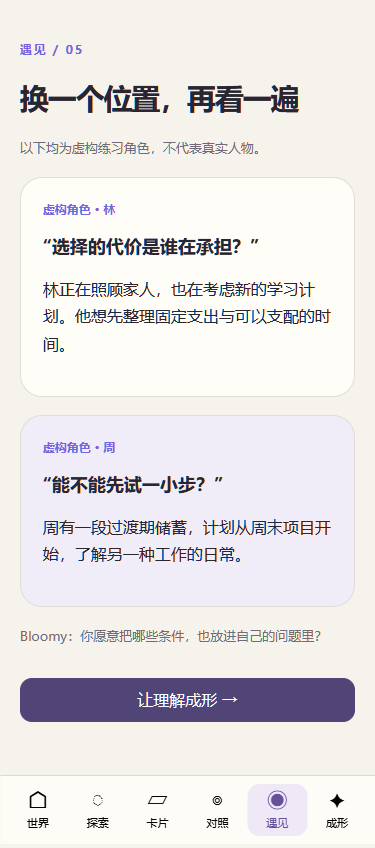
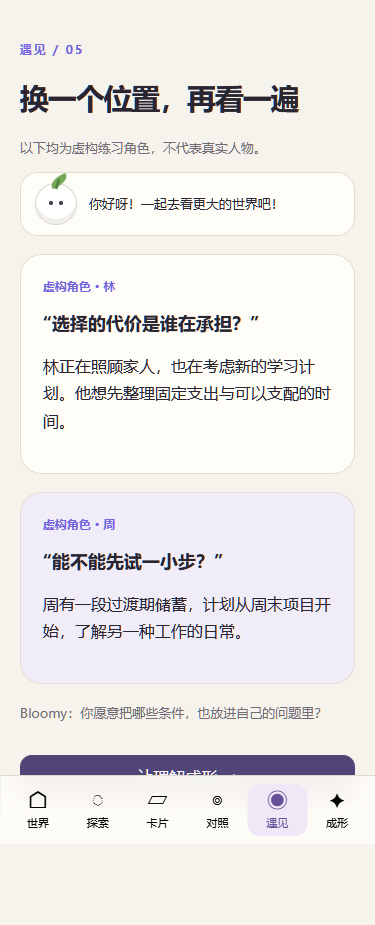
feat(app): Bloomy Pandora fog unlocks and crystal rewards

diff --git a/src/app/shell.ts b/src/app/shell.ts
@@ -5,7 +5,7 @@ import { mountMap } from './map';
 const routes = ['home', 'explore', 'detail', 'compare', 'meet', 'shape'];
 const names = ['世界', '探索', '卡片', '对照', '遇见', '成形'];
 const storageKey = 'guiyi-u-app-v1';
-const state = { filter: '全部', island: '', selected: 'a', favorites: [] as string[], compare: ['a', 'b'], marks: [] as string[], question: '', draft: ['', '', '', ''], saved: false };
+const state = { filter: '全部', island: '', selected: 'a', favorites: [] as string[], compare: ['a', 'b'], marks: [] as string[], question: '', draft: ['', '', '', ''], saved: false, crystals: 0, taskOpen: false, exploreRewarded: false };
 try {
   const stored = JSON.parse(localStorage.getItem(storageKey) || 'null');
   if (stored && typeof stored.question === 'string' && ['favorites', 'compare', 'marks', 'draft'].every(k => Array.isArray(stored[k]) && stored[k].every((v: unknown) => typeof v === 'string')) && stored.draft.length === 4) Object.assign(state, stored);
@@ -25,34 +25,35 @@ loadAppData().then(data => {
   if (state.compare.length !== 2) state.compare = ['a', 'b'];
   function view(page: string) {
     const current = data.cards.find(c => c.id === state.selected)!;
-    if (page === 'home') return title('归一 UNIVERSE / 01', '一问，一座世界', '不急着下结论，先让不同的线索相遇。') + '<form id="question-form" class="question-card"><label for="question">你正在问什么？</label><textarea id="question" maxlength="160" required>' + escape(state.question) + '</textarea><button class="primary">进入这座世界 →</button></form><div class="section-row"><h2>四座岛，慢慢探索</h2><span class="muted">探索进度 · 占位</span></div><div id="map" class="map-wrap"></div><p class="center-note">中央归一水晶 · 世界地标</p><div class="island-grid">' + data.islands.map(i => '<button data-island="' + i.id + '" style="background:' + i.color + '"><b>' + i.name + '</b><small>' + i.note + '</small></button>').join('') + '</div>' + (state.saved ? '<button class="full" data-path>已解锁：可逆的小步尝试 →</button>' : '');
+    if (page === 'home') return '<div class="topbar"><span>归一 UNIVERSE</span><b class="crystals">◇ ' + state.crystals + '</b></div>' + title('归一 UNIVERSE / 01', '一问，一座世界', '不急着下结论，先让不同的线索相遇。') + '<div class="bloomy"><div class="bloomy-art"><i></i><em></em></div><p>你好呀！一起去看更大的世界吧！</p></div><form id="question-form" class="question-card"><label for="question">你正在问什么？</label><textarea id="question" maxlength="160" required>' + escape(state.question) + '</textarea><button class="primary">进入这座世界 →</button></form><div class="section-row"><h2>四座岛，慢慢探索</h2><span class="muted">探索进度 · 占位</span></div><div id="map" class="map-wrap"></div><p class="center-note">中央归一水晶 · 世界地标</p><div class="island-grid">' + data.islands.map((i, index) => '<button class="' + (index > (state.saved ? 1 : 0) ? 'fogged' : '') + '" data-island="' + i.id + '" style="background:' + i.color + '"><b>' + i.name + '</b><small>' + i.note + '</small></button>').join('') + '</div><article class="mystery-box"><span class="tag">潘多拉任务 · 虚构</span><h2>打开被封锁的盒子，遇见意想不到的你</h2><p>一个未知岛入口的神秘练习。</p><button data-task>打开神秘盒子</button>' + (state.taskOpen ? '<div class="task-list">' + data.tasks.map(t => '<p>◇ ' + t + '<small>虚构任务示例</small></p>').join('') + '</div>' : '') + '</article>' + (state.saved ? '<button class="full" data-path>已解锁：可逆的小步尝试 →</button>' : '');
     if (page === 'explore') {
       const cards = data.cards.filter(c => (state.filter === '全部' || c.type === state.filter) && (!state.island || c.island === state.island));
       return title('探索 / 02', '收集不同的线索', escape(state.question)) + '<div class="chips">' + ['全部', '证据', '观点', '相关话题'].map(f => '<button data-filter="' + f + '" aria-pressed="' + (f === state.filter) + '">' + f + '</button>').join('') + '</div>' + (state.island ? '<button data-clear-island>查看所有岛屿 ×</button>' : '') + '<div class="card-list">' + cards.map(c => '<button class="card-tile" data-card="' + c.id + '"><span class="tag">' + c.type + '</span><h2>' + escape(c.title) + '</h2><p>' + escape(c.text) + '</p><small>' + escape(c.source) + '</small><span class="card-link">打开线索 ↗</span></button>').join('') + '</div>' + (!cards.length ? '<p>这个筛选下暂无线索，请切换分类。</p>' : '');
     }
     if (page === 'detail') return '<button data-go="explore">← 返回探索</button>' + title(current.type + ' / 03', escape(current.title), '本地演示材料') + '<article class="detail-card"><span class="tag">原文</span><blockquote>' + escape(current.text) + '</blockquote><h2>来源</h2><p>' + escape(current.source) + '</p><h2>处境</h2><p>' + escape(current.context) + '</p></article><div class="actions"><button data-favorite aria-pressed="' + state.favorites.includes(current.id) + '">' + (state.favorites.includes(current.id) ? '已收藏' : '收藏') + '</button><button data-add-compare>加入对照</button><button disabled>分享 · 敬请期待</button></div>';
     if (page === 'compare') return title('对照 / 04', '给不同理解留位置', '并排看见处境，差异不必马上得到解决。') + '<div class="compare-grid">' + state.compare.map((id, index) => { const c = data.cards.find(x => x.id === id)!; return '<article class="compare-card"><span class="tag">观点 ' + (index ? 'B' : 'A') + '</span><h2>' + escape(c.title) + '</h2><p>' + escape(c.text) + '</p><small>' + escape(c.context) + '</small></article>'; }).join('') + '</div><h2>我的标记</h2><p class="muted">本地标记占位，可以多选。</p><div class="marks">' + ['发现差异', '发现张力', '新的启发'].map(m => '<button data-mark="' + m + '" aria-pressed="' + state.marks.includes(m) + '">' + m + '</button>').join('') + '</div><button class="primary full" data-go="meet">遇见更多处境 →</button>';
-    if (page === 'meet') return title('遇见 / 05', '换一个位置，再看一遍', '以下均为虚构练习角色，不代表真实人物。') + '<article class="character"><span class="tag">虚构角色 · 林</span><h2>“选择的代价是谁在承担？”</h2><p>林正在照顾家人，也在考虑新的学习计划。他想先整理固定支出与可以支配的时间。</p></article><article class="character"><span class="tag">虚构角色 · 周</span><h2>“能不能先试一小步？”</h2><p>周有一段过渡期储蓄，计划从周末项目开始，了解另一种工作的日常。</p></article><p class="muted">Bloomy：你愿意把哪些条件，也放进自己的问题里？</p><button class="primary full" data-go="shape">让理解成形 →</button>';
-    return title('成形 / 06', '留下一份暂时的理解', '由你填写，也可以在之后继续修改。') + '<form id="shape-form" class="form-card"><span class="tag">成形卡 · 五要素</span><h2>① 我的问题</h2><p>' + escape(state.question) + '</p>' + ['② 当前理解', '③ 我的依据', '④ 适用条件', '⑤ 仍待探索'].map((label, index) => '<label for="draft-' + index + '">' + label + '</label><textarea id="draft-' + index + '" data-draft="' + index + '" maxlength="1000" required placeholder="写下此刻的线索…">' + escape(state.draft[index]) + '</textarea>').join('') + '<button class="primary full">' + (state.saved ? '更新成形卡' : '保存并解锁新路径') + '</button></form>' + (state.saved ? '<p role="status">已保存 · 新路径已解锁</p><button class="full" data-path>探索：可逆的小步尝试 →</button>' : '');
+    if (page === 'meet') return title('遇见 / 05', '换一个位置，再看一遍', '以下均为虚构练习角色，不代表真实人物。') + '<div class="bloomy"><div class="bloomy-art"><i></i><em></em></div><p>你好呀！一起去看更大的世界吧！</p></div><article class="character"><span class="tag">虚构角色 · 林</span><h2>“选择的代价是谁在承担？”</h2><p>林正在照顾家人，也在考虑新的学习计划。他想先整理固定支出与可以支配的时间。</p></article><article class="character"><span class="tag">虚构角色 · 周</span><h2>“能不能先试一小步？”</h2><p>周有一段过渡期储蓄，计划从周末项目开始，了解另一种工作的日常。</p></article><p class="muted">Bloomy：你愿意把哪些条件，也放进自己的问题里？</p><button class="primary full" data-go="shape">让理解成形 →</button>';
+    return title('成形 / 06', '留下一份暂时的理解', '由你填写，也可以在之后继续修改。') + '<form id="shape-form" class="form-card"><span class="tag">成形卡 · 五要素</span><h2>① 我的问题</h2><p>' + escape(state.question) + '</p>' + ['② 当前理解', '③ 我的依据', '④ 适用条件', '⑤ 仍待探索'].map((label, index) => '<label for="draft-' + index + '">' + label + '</label><textarea id="draft-' + index + '" data-draft="' + index + '" maxlength="1000" required placeholder="写下此刻的线索…">' + escape(state.draft[index]) + '</textarea>').join('') + '<button class="primary full">' + (state.saved ? '更新成形卡' : '保存并解锁新路径') + '</button></form>' + (state.saved ? '<div class="fog-note">✦ 迷雾散开：下一座岛已解锁</div><p role="status">已保存 · 新路径已解锁</p><button class="full" data-path>探索：可逆的小步尝试 →</button>' : '');
   }
   function render() {
     dispose?.(); dispose = undefined;
     const page = route();
     root.innerHTML = '<main class="screen">' + view(page) + '<p id="notice" role="status"></p></main><nav class="bottom-nav" aria-label="主导航">' + routes.map((r, i) => '<button data-go="' + r + '" class="nav-item" ' + (r === page ? 'aria-current="page"' : '') + '><span aria-hidden="true">' + ['⌂', '◌', '▱', '◎', '◉', '✦'][i] + '</span>' + names[i] + '</button>').join('') + '</nav>';
-    if (page === 'home') dispose = mountMap(root.querySelector('#map')!);
+    if (page === 'home') { dispose = mountMap(root.querySelector('#map')!); if (state.saved) root.querySelector('#map')?.classList.add('map-unlocked'); }
     root.querySelectorAll<HTMLElement>('[data-go]').forEach(e => e.onclick = () => go(e.dataset.go!));
     root.querySelectorAll<HTMLElement>('[data-card]').forEach(e => e.onclick = () => { state.selected = e.dataset.card!; persist(); go('detail'); });
     root.querySelectorAll<HTMLElement>('[data-filter]').forEach(e => e.onclick = () => { state.filter = e.dataset.filter!; persist(); render(); });
     root.querySelectorAll<HTMLElement>('[data-island]').forEach(e => e.onclick = () => { state.island = e.dataset.island!; state.filter = '全部'; persist(); go('explore'); });
     root.querySelector('[data-clear-island]')?.addEventListener('click', () => { state.island = ''; persist(); render(); });
     root.querySelector<HTMLTextAreaElement>('#question')?.addEventListener('input', e => { state.question = (e.target as HTMLTextAreaElement).value; state.saved = false; persist(); });
-    root.querySelector('#question-form')?.addEventListener('submit', e => { e.preventDefault(); if (!state.question.trim()) return; state.island = ''; persist(); go('explore'); });
-    root.querySelector('[data-favorite]')?.addEventListener('click', () => { state.favorites = state.favorites.includes(state.selected) ? state.favorites.filter(x => x !== state.selected) : [...state.favorites, state.selected]; persist(); render(); });
+    root.querySelector('#question-form')?.addEventListener('submit', e => { e.preventDefault(); if (!state.question.trim()) return; state.island = ''; if (!state.exploreRewarded) { state.exploreRewarded = true; state.crystals += 1; } persist(); go('explore'); });
+    root.querySelector('[data-favorite]')?.addEventListener('click', () => { const added = !state.favorites.includes(state.selected); state.favorites = added ? [...state.favorites, state.selected] : state.favorites.filter(x => x !== state.selected); if (added) state.crystals += 1; persist(); render(); });
     root.querySelector('[data-add-compare]')?.addEventListener('click', () => { if (!state.compare.includes(state.selected)) state.compare = [state.compare[1], state.selected]; persist(); go('compare'); });
     root.querySelectorAll<HTMLElement>('[data-mark]').forEach(e => e.onclick = () => { const m = e.dataset.mark!; state.marks = state.marks.includes(m) ? state.marks.filter(x => x !== m) : [...state.marks, m]; persist(); render(); });
     root.querySelectorAll<HTMLTextAreaElement>('[data-draft]').forEach(e => e.oninput = () => { state.draft[Number(e.dataset.draft)] = e.value; state.saved = false; persist(); });
-    root.querySelector('#shape-form')?.addEventListener('submit', e => { e.preventDefault(); if (state.draft.some(x => !x.trim())) return; state.saved = true; const stored = persist(); render(); root.querySelector('#notice')!.textContent = stored ? '已保存到本机。' : '仅保留于本次会话；浏览器禁止本机存储。'; });
+    root.querySelector('#shape-form')?.addEventListener('submit', e => { e.preventDefault(); if (state.draft.some(x => !x.trim())) return; if (!state.saved) state.crystals += 2; state.saved = true; const stored = persist(); render(); root.querySelector('#notice')!.textContent = stored ? '已保存到本机。' : '仅保留于本次会话；浏览器禁止本机存储。'; });
     root.querySelector('[data-path]')?.addEventListener('click', () => { state.island = ''; state.filter = '相关话题'; persist(); go('explore'); });
+    root.querySelector('[data-task]')?.addEventListener('click', () => { state.taskOpen = !state.taskOpen; state.crystals += state.taskOpen ? 1 : 0; persist(); render(); });
   }
   window.addEventListener('hashchange', () => { render(); window.scrollTo(0, 0); });
   window.addEventListener('pagehide', () => { dispose?.(); dispose = undefined; });

diff --git a/src/app/style.css b/src/app/style.css
@@ -1,3 +1,5 @@
 :root{font-family:system-ui,"Noto Sans SC",sans-serif;color:#292632;background:#f5f3eb}*{box-sizing:border-box}body{margin:0}button{font:inherit;min-height:44px;border:1px solid #d9d4cc;border-radius:12px;background:#fffdf8;padding:10px 14px;cursor:pointer}.screen{width:min(100%,430px);margin:auto;padding:30px 20px 100px;min-height:100vh}.eyebrow,.tag{color:#7565df;font-size:12px;font-weight:800}.question-card,.detail-card,.form-card,.character,.compare-card{padding:22px;margin:18px 0;border-radius:22px;background:#fffdf8;border:1px solid #e1ddd4}.question-card p,.quote{font:24px Georgia,serif;line-height:1.5}.map-wrap{height:300px;border-radius:24px;background:#dce5f5}.card-list,.compare-grid{display:grid;gap:12px}.card-tile{text-align:left}.bottom-nav{position:fixed;bottom:0;left:50%;transform:translateX(-50%);width:min(100%,430px);display:grid;grid-template-columns:repeat(6,1fr);background:#fffdf8ee;padding:8px}.nav-item{border:0;background:none;font-size:11px;padding:6px}.character{line-height:1.6}.form-card p{border-top:1px solid #e5e0d8;padding-top:12px}
 /* U-APP mobile shell */
 button,textarea{min-width:44px;min-height:44px}button:focus-visible,textarea:focus-visible{outline:3px solid #7565df;outline-offset:3px}button:disabled{cursor:default;color:#776f79;background:#eeeae3}h1{font-size:29px;line-height:1.3;letter-spacing:-.04em}h2{font-size:18px;line-height:1.45}p{line-height:1.7}small{line-height:1.5}textarea{font:inherit;display:block;width:100%;resize:vertical;border:1px solid #d9d4cc;border-radius:12px;padding:12px;margin:10px 0 20px;min-height:90px;background:#fffefb;color:inherit}label{display:block;font-size:14px;font-weight:700}.muted,.center-note{color:#716b76;font-size:13px}.eyebrow{letter-spacing:.15em;margin-top:10px}.screen{padding-bottom:calc(110px + env(safe-area-inset-bottom));overflow-wrap:anywhere}.primary{background:#514476;color:#fff;border-color:#514476}.question-card{background:#f1ecfa}.question-card textarea{font-size:20px}.section-row{display:flex;align-items:center;justify-content:space-between;gap:12px}.section-row h2{font-size:17px}.section-row span{font-size:11px}.map-wrap{overflow:hidden;background:radial-gradient(ellipse,#e7e1f5,#dce5f5);position:relative}.map-wrap canvas{display:block}.map-wrap[data-fallback]:after{content:'地图暂不可用，请从下方岛屿入口继续';display:block;padding:48px 24px;text-align:center}.center-note{text-align:center}.island-grid{display:grid;grid-template-columns:1fr 1fr;gap:10px}.island-grid button{text-align:left;padding:15px}.island-grid small{display:block;margin-top:5px;font-size:11px}.full{width:100%;margin-top:18px}.chips{display:flex;gap:6px;margin:22px 0}.chips button{flex:1;padding:10px 6px;font-size:13px;white-space:nowrap}[aria-pressed=true]{background:#7565df;color:#fff;border-color:#7565df}.card-list{margin-top:18px}.card-tile{border-radius:20px;padding:20px}.card-tile p{font-size:14px;color:#625c67}.card-tile small{font-size:11px;color:#746d78}.card-link{display:block;margin-top:14px;color:#655394;font-size:12px}.tag{display:block}.detail-card blockquote{margin:18px 0 26px;font-size:20px;line-height:1.8}.actions{display:flex;flex-wrap:wrap;gap:8px}.actions button{flex:1}.compare-grid{grid-template-columns:minmax(0,1fr) minmax(0,1fr);gap:10px}.compare-card{padding:14px;margin:12px 0;min-width:0;background:#eaf0fc}.compare-card:nth-child(2){background:#fbe9e2}.compare-card h2{font-size:16px}.compare-card p{font-size:14px}.compare-card small{font-size:12px;color:#655d69}.marks{display:grid;gap:8px}.marks button{text-align:left}.character:nth-of-type(2){background:#f0ecf8}.bottom-nav{padding:8px 8px calc(8px + env(safe-area-inset-bottom));border-top:1px solid #ded8cf;backdrop-filter:blur(12px);z-index:20}.nav-item{display:grid;gap:4px;justify-items:center;min-height:52px;font-size:11px}.nav-item span{font-size:21px;line-height:1}.nav-item[aria-current]{color:#665199;background:#eeE8f7}.form-card{padding:20px}.form-card label{margin-top:16px}.form-card textarea{min-height:100px}
+.bloomy{display:flex;align-items:center;gap:12px;padding:10px 14px;margin:10px 0 16px;border:1px solid #e1ddd4;border-radius:18px;background:#fffdf8}.bloomy p{margin:0;font-size:13px}.bloomy-art{position:relative;width:42px;height:42px;border-radius:50%;background:#fff;border:1px solid #dad6cf;box-shadow:inset 0 -5px #f0eee8;flex:0 0 42px}.bloomy-art:before,.bloomy-art:after{content:'';position:absolute;width:4px;height:4px;border-radius:50%;background:#393448;top:17px}.bloomy-art:before{left:13px}.bloomy-art:after{right:13px}.bloomy-art i{position:absolute;width:18px;height:10px;border-radius:100% 0 100% 0;background:#75a95a;left:14px;top:-8px;transform:rotate(-22deg)}.bloomy-art em{position:absolute;width:3px;height:10px;background:#568340;left:20px;top:-5px;transform:rotate(18deg)}.topbar{display:flex;justify-content:space-between;align-items:center;color:#7565df;font-size:11px;font-weight:800;letter-spacing:.12em}.crystals{padding:7px 10px;border-radius:999px;background:#efe9ff;color:#6950b9;letter-spacing:0;font-size:14px}.mystery-box{margin:18px 0;padding:18px;border-radius:22px;border:1px dashed #9e7bca;background:linear-gradient(135deg,#f5edff,#fff5e7)}.mystery-box h2{margin:4px 0 8px}.mystery-box p{font-size:13px;margin:0 0 10px}.task-list{border-top:1px solid #d9c8ea;margin-top:14px;padding-top:8px}.task-list p{font-size:13px;margin:8px 0}.task-list small{display:block;margin-left:17px;color:#8a7d90;font-size:11px}.map-unlocked:after{content:'迷雾已散开 · 下一座岛已解锁';position:absolute;inset:auto 12px 12px;padding:8px 10px;border-radius:10px;background:#fffdf8dc;color:#67539a;font-size:11px;text-align:center}.fog-note{padding:12px;border-radius:14px;background:#eee8fa;color:#67539a;font-size:13px;margin-top:14px}
+.island-grid .fogged{position:relative;overflow:hidden;filter:saturate(.45);color:#77718a}.island-grid .fogged:after{content:'迷雾中';position:absolute;inset:0;display:grid;place-items:center;background:#d8d4e5b8;color:#5e5871;font-size:12px;font-weight:800;letter-spacing:.1em}.island-grid .fogged small{opacity:.6}
